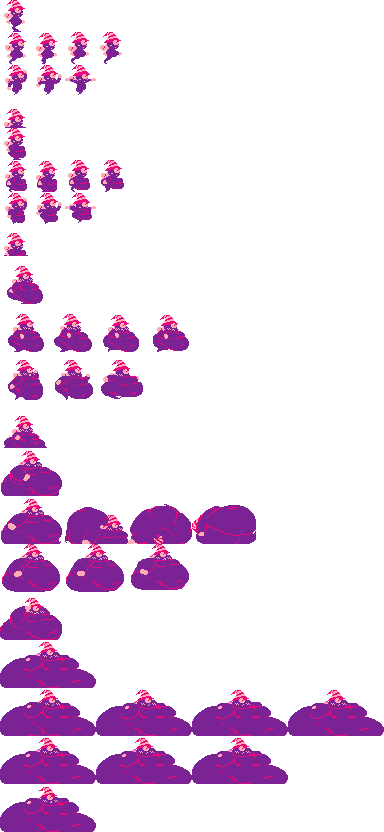
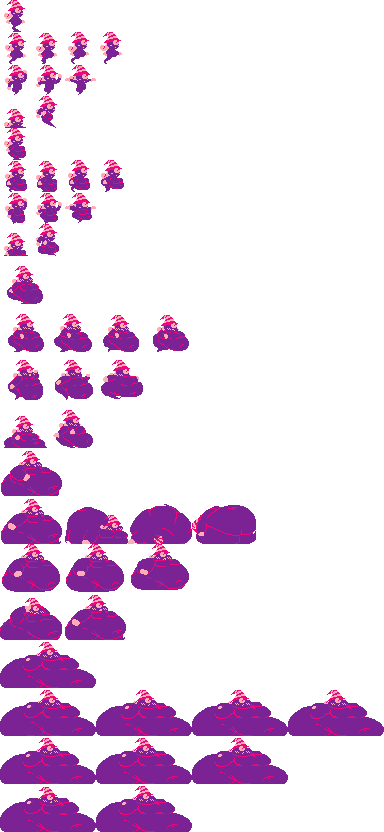
Improve turning

diff --git a/game.c b/game.c
@@ -148,11 +148,13 @@ void game_update(const Input *input) {
 		// TODO idle animation
 		anim_x = 0;
 		anim_y = 0;
+		animt = 0;
 
 	} else if (facing_left == pdx > 0) { // turning animation occurs when, say, facing left but moving right
 	
 		anim_x = state.w;
 		anim_y = 3 * state.h;
+		animt = 0;
 	
 	} else {
 
